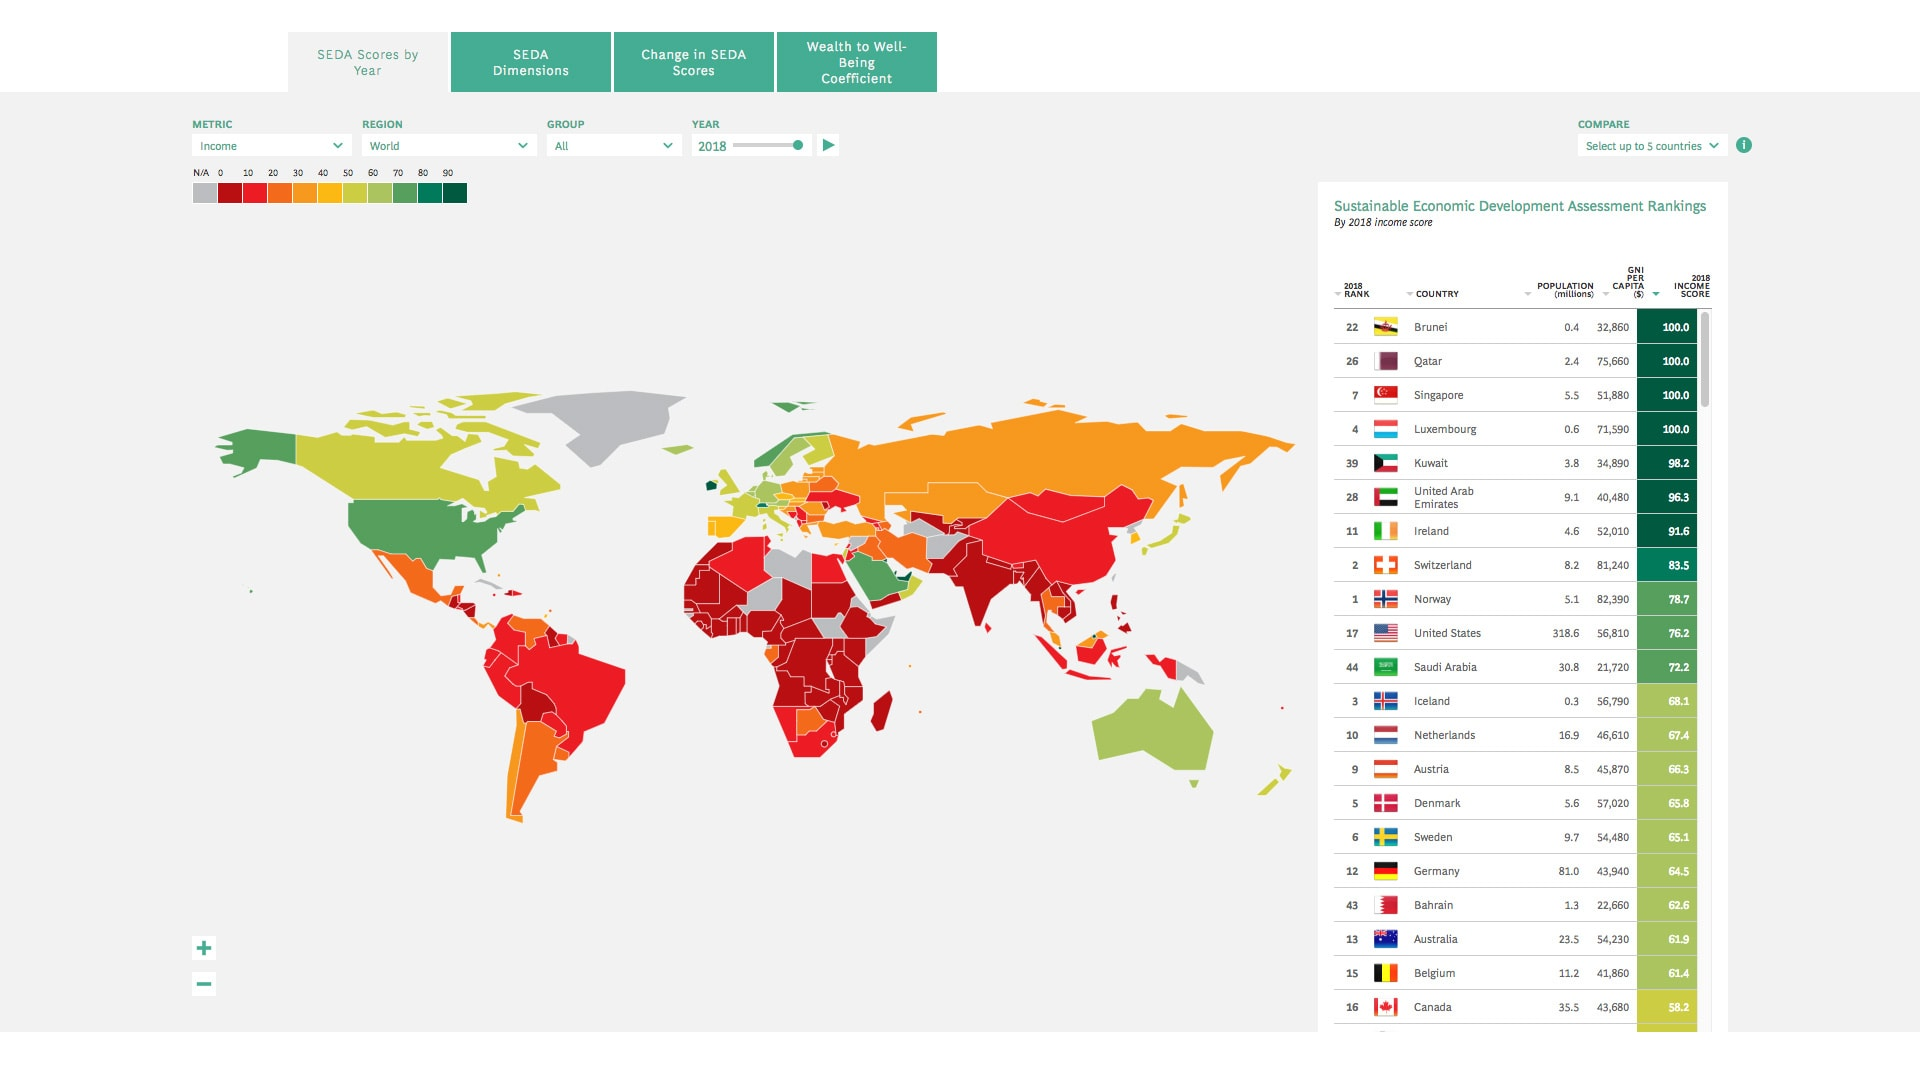
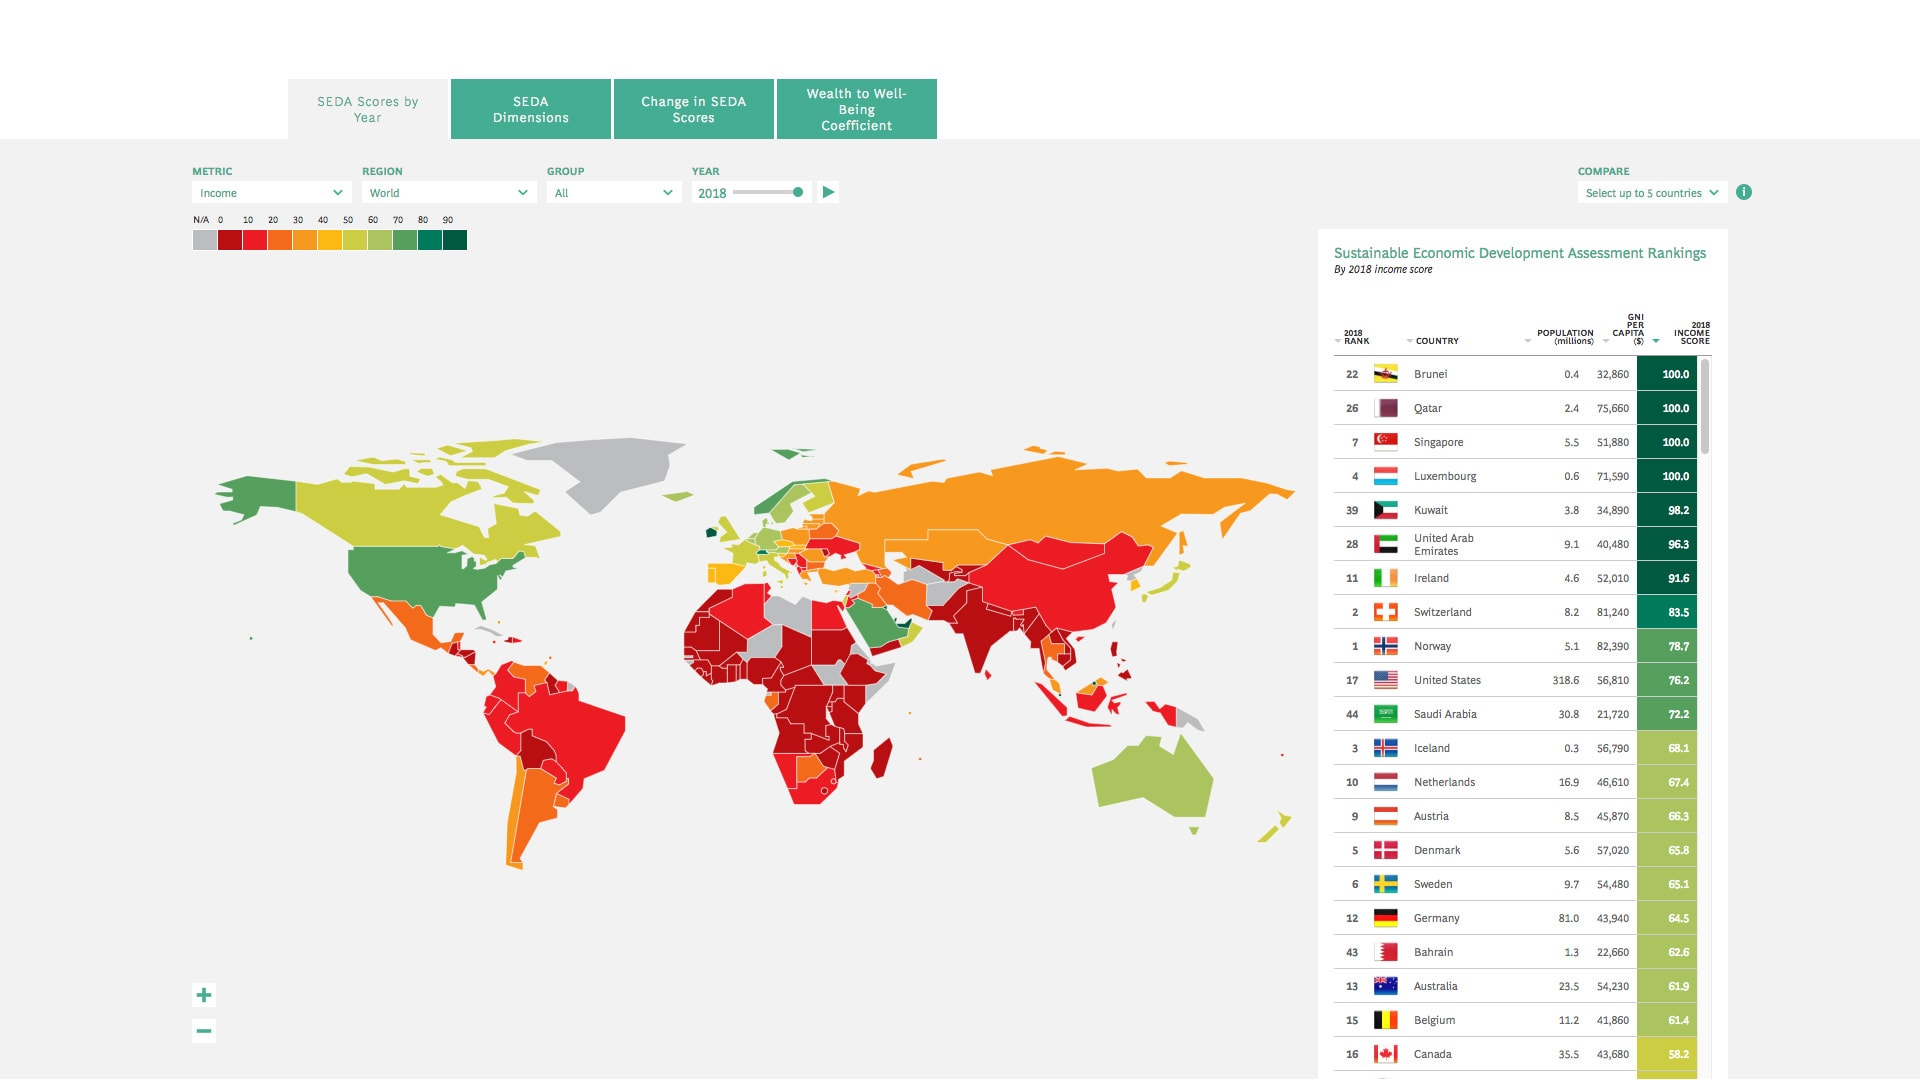
update

diff --git a/server.js b/server.js
@@ -1295,7 +1295,7 @@ module.exports = require("fs");
 /* 38 */
 /***/ (function(module, exports) {
 
-module.exports = "<div class=\"row no-gutters py-md-4 px-md-4\">\n    <div class=\"col-12\">\n\n        <div class=\"row no-gutters align-items-end\">\n\n            <div class=\"col-12 col-md-8\">\n                <div class=\"head\">\n                    <!-- <div class=\"shadow overlay abs-percent-fullscreen\"></div> -->\n                    <div class=\"border overlay abs-percent-fullscreen\"></div>\n\n                    <!-- <div class=\"icons\">\n                        <div class=\"fullscreen-icon\">\n                            <img src=\"/assets/img/fullscreen-black-on.svg\" class=\"fullscreen-on\">\n                            <img src=\"/assets/img/fullscreen-black-off.svg\" class=\"fullscreen-off\">\n                        </div>\n                    </div> -->\n\n                    <div class=\"bg\" style=\"background-image:url(/assets/work/seda/main.jpg)\"></div>\n\n                    <!-- <div class=\"iframe-container\">\n                            <iframe scrolling='no' class=\"iframe\" src=\"/assets/work/pride-prejudice/iframe/index.html\" frameBorder=\"0\"></iframe>\n                        </div> -->\n                </div>\n            </div>\n\n            <div class=\"py-2 px-2 pl-md-2 pr-md-4 py-md-0 col-12 col-md-4\">\n                <div class=\"credits\">\n                    <br>\n                    Design: <a href=\"http://infographics.com/\" target=\"_blank\">Tommy McCall</a>\n                </div>\n            </div>\n\n        </div>\n\n        <div class=\"row no-gutters mt-md-4\">\n            <div class=\"py-2 px-2 px-md-0 py-md-0 col-12 col-md-8\">\n\n                <div class=\"text\">\n                    <div class=\"inner\">\n                        <span class=\"title\">World economic development</span>\n\n                        <span class=\"year\">2018</span>\n\n                        <div class=\"description\">\n                            Designed by\n                            <a href=\"http://infographics.com/\" target=\"_blank\">Tommy McCall</a>, this application is an effort to represent global economic development. The user can explore a large dataset (10 years, 152 countries) using an interactive map, several filters and a compare function.\n                            <br>\n                            <br>\n                            <span class=\"link\">\n                                <a href=\"https://seda-dataviz.surge.sh/\" target=\"_blank\">Link</a>\n                            </span>\n                        </div>\n\n\n                    </div>\n                </div>\n\n            </div>\n        </div>\n    </div>\n</div>\n\n<div class=\"images\">\n    <div class=\"art image row no-gutters pb-2 pb-md-4\">\n        <div class=\"col\">\n            <div class=\"row-zoom row no-gutters px-2 px-md-4\">\n                <div class=\"col-zoom col-12 col-md-8\">\n                    <img class=\"img\" src=\"/assets/work/seda/screenshot-1.jpg\">\n                    <div class=\"caption\">\n                        Interactive table.\n                    </div>\n                </div>\n            </div>\n        </div>\n    </div>\n\n\n    <div class=\"art image row no-gutters pb-2 pb-md-4\">\n        <div class=\"col\">\n            <div class=\"row-zoom row no-gutters px-2 px-md-4\">\n                <div class=\"col-zoom col-12 col-md-8\">\n                    <img class=\"img\" src=\"/assets/work/seda/screenshot-2.jpg\">\n                    <div class=\"caption\">\n                        Interactive map and table.\n                    </div>\n                </div>\n            </div>\n        </div>\n    </div>\n\n\n    <div class=\"art image row no-gutters pb-2 pb-md-4\">\n        <div class=\"col\">\n            <div class=\"row-zoom row no-gutters px-2 px-md-4\">\n                <div class=\"col-zoom col-12 col-md-8\">\n                    <img class=\"img\" src=\"/assets/work/seda/screenshot-3.jpg\">\n                    <div class=\"caption\">\n                        Compare functionality.\n                    </div>\n                </div>\n            </div>\n        </div>\n    </div>\n\n</div>"
+module.exports = "<div class=\"row no-gutters py-md-4 px-md-4\">\n    <div class=\"col-12\">\n\n        <div class=\"row no-gutters align-items-end\">\n\n            <div class=\"col-12 col-md-8\">\n                <div class=\"head\">\n                    <!-- <div class=\"shadow overlay abs-percent-fullscreen\"></div> -->\n                    <!-- <div class=\"border overlay abs-percent-fullscreen\"></div> -->\n\n                    <!-- <div class=\"icons\">\n                        <div class=\"fullscreen-icon\">\n                            <img src=\"/assets/img/fullscreen-black-on.svg\" class=\"fullscreen-on\">\n                            <img src=\"/assets/img/fullscreen-black-off.svg\" class=\"fullscreen-off\">\n                        </div>\n                    </div> -->\n\n                    <div class=\"bg\" style=\"background-image:url(/assets/work/seda/main.jpg)\"></div>\n\n                    <!-- <div class=\"iframe-container\">\n                            <iframe scrolling='no' class=\"iframe\" src=\"/assets/work/pride-prejudice/iframe/index.html\" frameBorder=\"0\"></iframe>\n                        </div> -->\n                </div>\n            </div>\n\n            <div class=\"py-2 px-2 pl-md-2 pr-md-4 py-md-0 col-12 col-md-4\">\n                <div class=\"credits\">\n                    <br>\n                    Design: <a href=\"http://infographics.com/\" target=\"_blank\">Tommy McCall</a>\n                </div>\n            </div>\n\n        </div>\n\n        <div class=\"row no-gutters mt-md-4\">\n            <div class=\"py-2 px-2 px-md-0 py-md-0 col-12 col-md-8\">\n\n                <div class=\"text\">\n                    <div class=\"inner\">\n                        <span class=\"title\">World economic development</span>\n\n                        <span class=\"year\">2018</span>\n\n                        <div class=\"description\">\n                            Designed by\n                            <a href=\"http://infographics.com/\" target=\"_blank\">Tommy McCall</a>, this application is an effort to represent global economic development. The user can explore a large dataset (10 years, 152 countries) using an interactive map, several filters and a compare function.\n                            <br>\n                            <br>\n                            <span class=\"link\">\n                                <a href=\"https://seda-dataviz.surge.sh/\" target=\"_blank\">Link</a>\n                            </span>\n                        </div>\n\n\n                    </div>\n                </div>\n\n            </div>\n        </div>\n    </div>\n</div>\n\n<div class=\"images\">\n    <div class=\"art image row no-gutters pb-2 pb-md-4\">\n        <div class=\"col\">\n            <div class=\"row-zoom row no-gutters px-2 px-md-4\">\n                <div class=\"col-zoom col-12 col-md-8\">\n                    <img class=\"img\" src=\"/assets/work/seda/screenshot-1.jpg\">\n                    <div class=\"caption\">\n                        Interactive table.\n                    </div>\n                </div>\n            </div>\n        </div>\n    </div>\n\n\n    <div class=\"art image row no-gutters pb-2 pb-md-4\">\n        <div class=\"col\">\n            <div class=\"row-zoom row no-gutters px-2 px-md-4\">\n                <div class=\"col-zoom col-12 col-md-8\">\n                    <img class=\"img\" src=\"/assets/work/seda/screenshot-2.jpg\">\n                    <div class=\"caption\">\n                        Interactive map and table.\n                    </div>\n                </div>\n            </div>\n        </div>\n    </div>\n\n\n    <div class=\"art image row no-gutters pb-2 pb-md-4\">\n        <div class=\"col\">\n            <div class=\"row-zoom row no-gutters px-2 px-md-4\">\n                <div class=\"col-zoom col-12 col-md-8\">\n                    <img class=\"img\" src=\"/assets/work/seda/screenshot-3.jpg\">\n                    <div class=\"caption\">\n                        Compare functionality.\n                    </div>\n                </div>\n            </div>\n        </div>\n    </div>\n\n</div>"
 
 /***/ })
 /******/ ]);

diff --git a/src/data/work/seda.html b/src/data/work/seda.html
@@ -6,7 +6,7 @@
             <div class="col-12 col-md-8">
                 <div class="head">
                     <!-- <div class="shadow overlay abs-percent-fullscreen"></div> -->
-                    <div class="border overlay abs-percent-fullscreen"></div>
+                    <!-- <div class="border overlay abs-percent-fullscreen"></div> -->
 
                     <!-- <div class="icons">
                         <div class="fullscreen-icon">

diff --git a/public/assets/css/style.css b/public/assets/css/style.css
@@ -6127,6 +6127,10 @@ a.list-item .details .year {
   border-color: #ddd !important;
 }
 
+#seda .bg {
+  background-position: -60px center;
+}
+
 #page404 {
   position: relative;
   height: 100%;

diff --git a/src/styles/components/work/_detail.scss b/src/styles/components/work/_detail.scss
@@ -23,3 +23,4 @@
 @import 'detail/custom/pride-prejudice';
 @import 'detail/custom/the-code-of-nature-3d';
 @import 'detail/custom/glabs';
+@import 'detail/custom/seda';

diff --git a/src/styles/components/work/detail/custom/_seda.scss b/src/styles/components/work/detail/custom/_seda.scss
@@ -1,0 +1,5 @@
+#seda {
+  .bg {
+    background-position: -60px center;
+  }
+}
